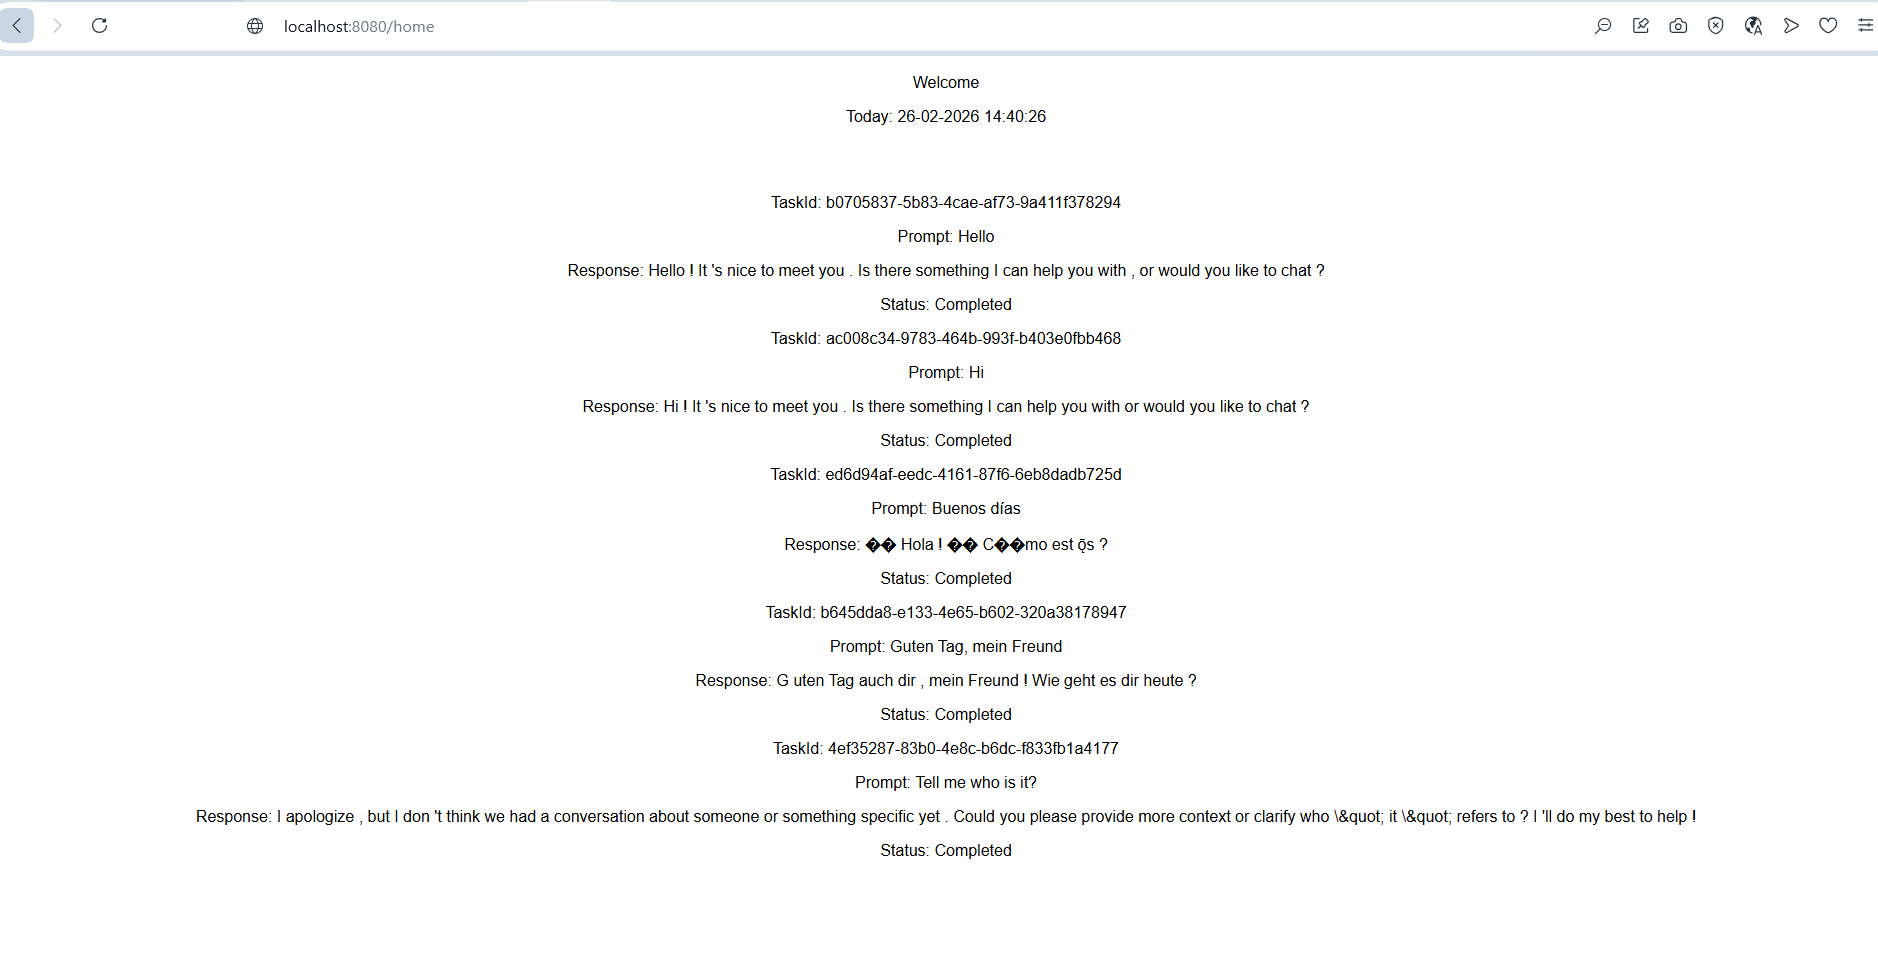
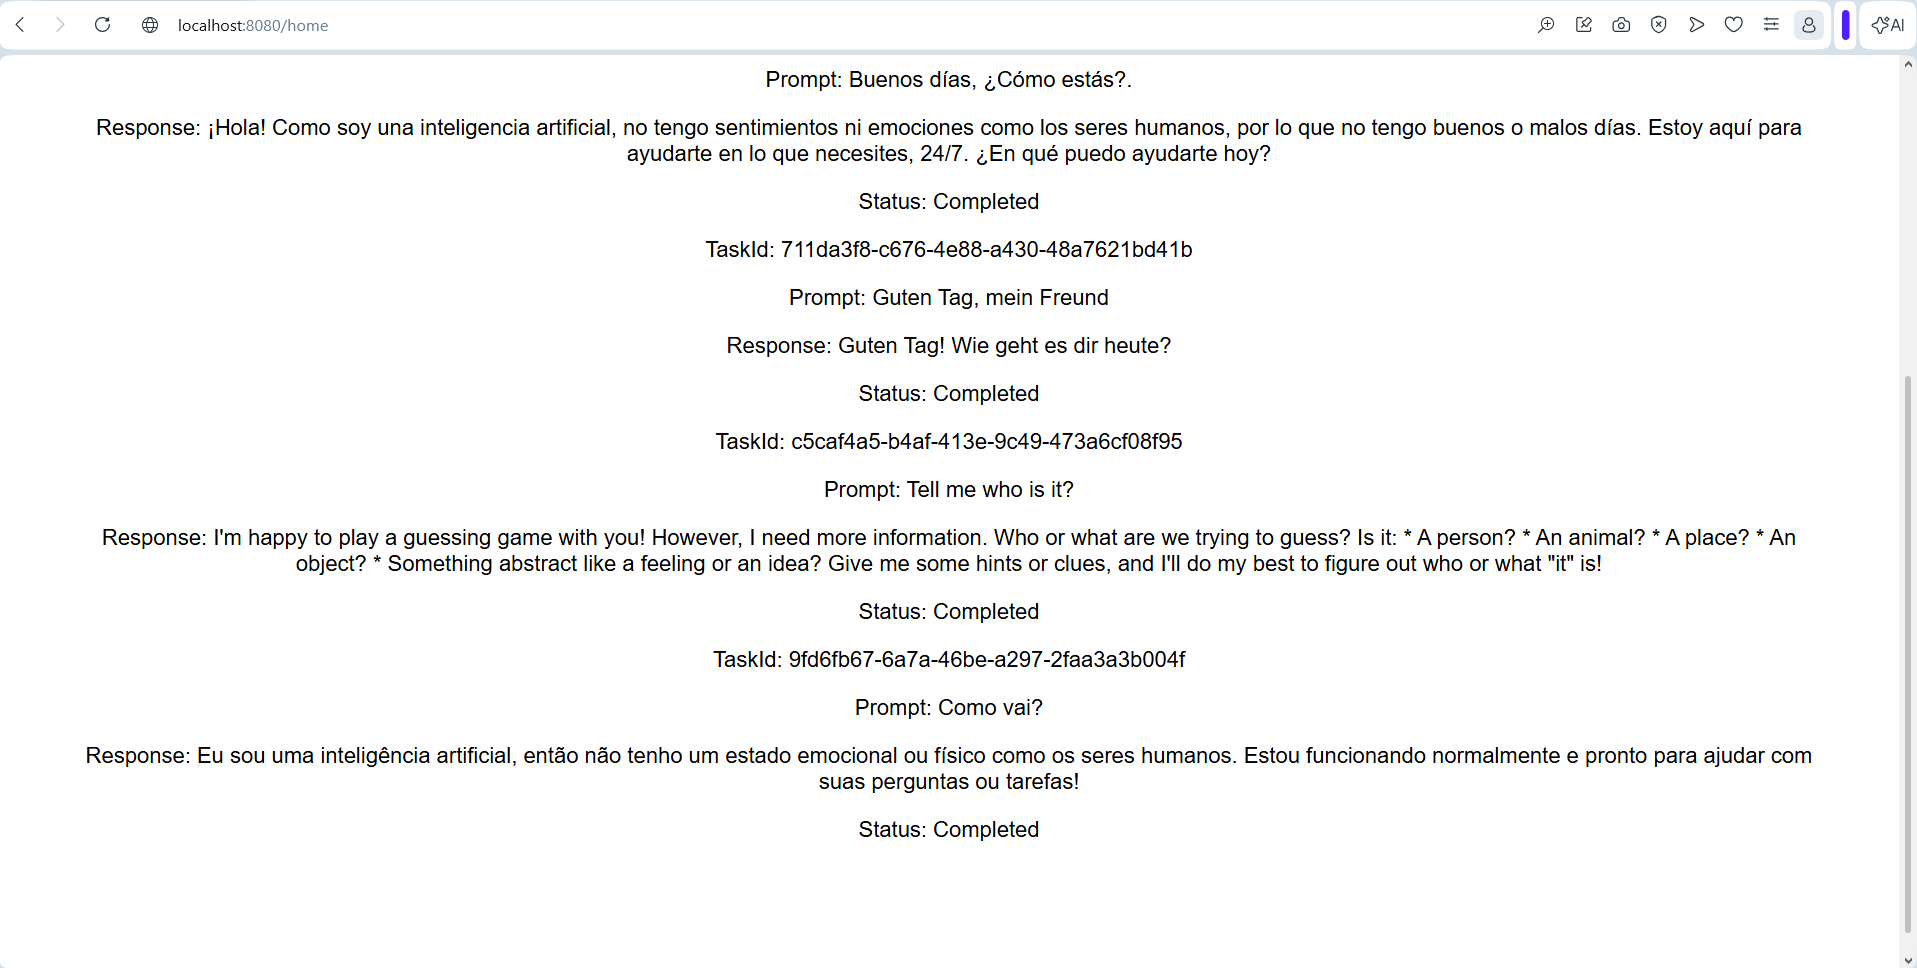
added

diff --git a/java-llama-spring-boot/app/ollama/src/main/java/com/ollama/ollama/utils/OllamaReader.java b/java-llama-spring-boot/app/ollama/src/main/java/com/ollama/ollama/utils/OllamaReader.java
@@ -8,6 +8,8 @@ import java.util.Arrays;
 import java.util.List;
 import static com.ollama.ollama.component.ApplicationProperties.AppName;
 import static java.lang.ProcessBuilder.startPipeline;
+
+import com.ollama.ollama.error.ShellExecutionException;
 import org.apache.commons.lang3.StringUtils;
 import java.io.IOException;
 
@@ -15,7 +17,7 @@ public class OllamaReader {
     public String prompt;
     public List<String> response;
 
-    public OllamaReader(String prompt) throws IOException {
+    public OllamaReader(String prompt) throws RuntimeException, IOException {
         String path = new File(".").getAbsolutePath();
 
         String appNameDir = "\\" + AppName + "\\";
@@ -28,20 +30,9 @@ public class OllamaReader {
         String currentPath = path.substring(0, index + appNameDir.length());
         String filePath = currentPath + psScript;
 
-        // restore psScript from template script
-        Files.copy(
-                Paths.get(
-                        filePath.replace(psScript, psTemplateScript)
-                ),
-                Paths.get(
-                        filePath
-                ),
-                StandardCopyOption.REPLACE_EXISTING
-        );
-
-        this.replaceInFile(
-                filePath,
-                "%%PROMPT%%",
+        String commandPs = String.format(
+                "\"[Console]::OutputEncoding=[System.Text.Encoding]::UTF8; powershell -File '%s' -Z '%s'\"",
+                psTemplateScript,
                 prompt
         );
 
@@ -51,8 +42,8 @@ public class OllamaReader {
                         "-ExecutionPolicy",
                         "Bypass",
                         "-Command",
-                        "\"[Console]::OutputEncoding=[System.Text.Encoding]::UTF8; powershell -File .\\ollama.ps1\""
-                );
+                        commandPs
+            );
 
         pbuilder.directory(new File(currentPath)); // set working directory to run this command
         pbuilder.redirectErrorStream(false); // keep stdout and stderr separate
@@ -65,71 +56,87 @@ public class OllamaReader {
         List<String> response = new ArrayList<>(new ArrayList<>(List.of()));
 
         try {
-            try (BufferedReader stdOut = new BufferedReader(
-                    new InputStreamReader(process.getInputStream(), StandardCharsets.UTF_8));
+            try (
+                 BufferedReader stdOut = new BufferedReader(
+                    new InputStreamReader(process.getInputStream(), StandardCharsets.UTF_8)
+                 );
                  BufferedReader stdErr = new BufferedReader(
-                         new InputStreamReader(process.getErrorStream(), StandardCharsets.UTF_8))) {
-
+                    new InputStreamReader(process.getErrorStream(), StandardCharsets.UTF_8)
+                 )
+            ) {
                 String text;
 
                 String line;
                 System.out.println("----- OUTPUT -----");
 
-                while ((text = stdOut.readLine()) != null) {
-                    int positionStart = text.indexOf("response", 0);
+                boolean isReadingResponse = false;
 
-                    if (positionStart != -1) {
-                        //int positionEnd = text.indexOf(",\"done\":", positionStart) + ": ".length();
-                        int positionEnd = text.indexOf(": ", positionStart) + ": ".length();
+                while ((text = stdOut.readLine()) != null) {
+                    int positionStart = text.indexOf("response", 0); // from the beginning
+                    int positionEnd = 0;
+
+                    if (positionStart == 0) { // should be at first position of the string
+                        isReadingResponse = true;
+                        positionEnd = text.indexOf(": ", positionStart + "response".length());
 
                         if (positionEnd != -1) {
                             String str = text.substring(
-                                    //positionStart + "\"response\":".length(),
-                                    //positionEnd - ",".length()
-                                    //positionStart + "response".length(),
-                                    //positionEnd - "".length()
-                                    positionEnd
+                                    positionEnd + ": ".length()
                             ).replaceAll(
                                     "(^\")|(\",$)",
                                     ""
-                            ); // this last replaceAll removes single quote from the
+                            );
+                            // this last replaceAll removes single quote from the
                             // beginning and end of string
 
-                            if (!str.isEmpty()) {
+                            if (!str.isEmpty()) { // string should have content before adding to response
                                 response.add(str);
                             }
                         }
                     } else {
-
-                        String ending = "done                 : ";
+                        String ending = "done";
                         positionStart = text.indexOf(ending, 0);
 
-                        if (positionStart != -1) {
-                            break; // exit for
-                        } else {
+                        if (positionStart == 0) { // should be at first position of the string
+                            break; // exit for // reading of response is finished
+                        } else if (isReadingResponse) {
                             positionStart = 0;
+
                             String str = text.substring(
                                     positionStart
                             ).replaceAll(
                                     "(^\")|(\",$)",
                                     ""
-                            ); // this last replaceAll removes single quote from the
+                            );
+                            // this last replaceAll removes single quote from the
                             // beginning and end of string
 
-                            str = StringUtils.stripEnd(str, " ");
-                            if (!str.isEmpty()) { response.add(str); }
+                            str = StringUtils.strip(str, " "); // remove spaces from both sides
+                            if (!str.isEmpty()) { // string should have content before adding to response
+                                response.add(str);
+                            }
                         }
                     }
                 } // exit while
 
-                if (response.isEmpty()) {
-                    response.add("There is not response.");
-                }
-
                 System.out.println("------ ERRORS ------");
+
+                boolean errorFound = false;
+                List<String> errorDescription= new ArrayList<>(new ArrayList<>(List.of()));
 
                 while ((line = stdErr.readLine()) != null) {
                     System.err.println(line);
+
+                    errorFound = true;
+                    errorDescription.add(line);
+                }
+
+                if (errorFound) {
+                    response.add("Sorry. Response could be reached by AI. An error occurred.");
+                    throw new ShellExecutionException(String.join("\n", errorDescription));
+                }
+                else if (response.isEmpty()) {
+                    response.add("There is not response.");
                 }
             } // exit try
 
@@ -152,22 +159,5 @@ public class OllamaReader {
         Reader isr = new InputStreamReader(inputStream);
         BufferedReader r = new BufferedReader(isr);
         return r.lines().toList();
-    }
-
-    private void replaceInFile(String filePath, String target, String replacement) throws IOException {
-        Path path = Paths.get(filePath);
-
-        if (!Files.exists(path)) {
-            throw new IOException("File not found: " + filePath);
-        }
-
-        Files.writeString(
-                path,
-                Files
-                        .readString(path, StandardCharsets.UTF_8)
-                        .replace(target, replacement),
-                StandardCharsets.UTF_8,
-                StandardOpenOption.TRUNCATE_EXISTING
-        );
     }
 }

diff --git a/java-llama-spring-boot/app/ollama/src/main/java/com/ollama/ollama/controller/TrackedEventController.java b/java-llama-spring-boot/app/ollama/src/main/java/com/ollama/ollama/controller/TrackedEventController.java
@@ -42,32 +42,30 @@ public class TrackedEventController {
         String url = "/public/home";
         String prompt;
 
-        //prompt = "Hello";
-        //if (!this.checkExist(prompt)) {
-        //    this.addPrompt(model, prompt);
-        //}
-
-        //prompt = "Hi";
-        //if (!this.checkExist(prompt)) {
-        //    this.addPrompt(model, prompt);
-        //}
-
-        //fixing latin encoding
-        //response is not correct. weird characters appears.
-        prompt = "Buenos días, ¿Cómo funciona la IA? Me lo puedes explicar brevemente.";
+        prompt = "Hello";
         if (!this.checkExist(prompt)) {
             this.addPrompt(model, prompt);
         }
 
-        //prompt = "Guten Tag, mein Freund";
-        //if (!this.checkExist(prompt)) {
-        //    this.addPrompt(model, prompt);
-        //}
+        prompt = "Buenos días, ¿Cómo estás?.";
+        if (!this.checkExist(prompt)) {
+            this.addPrompt(model, prompt);
+        }
 
-        //prompt = "Tell me who is it?";
-        //if (!this.checkExist(prompt)) {
-        //    this.addPrompt(model, prompt);
-        //}
+        prompt = "Guten Tag, mein Freund";
+        if (!this.checkExist(prompt)) {
+            this.addPrompt(model, prompt);
+        }
+
+        prompt = "Tell me who is it?";
+        if (!this.checkExist(prompt)) {
+            this.addPrompt(model, prompt);
+        }
+
+        prompt = "Como vai?";
+        if (!this.checkExist(prompt)) {
+            this.addPrompt(model, prompt);
+        }
 
         this.updateData();
         this.loadPrompts(model);

diff --git a/java-llama-spring-boot/app/ollama/src/main/java/com/ollama/ollama/error/ShellExecutionException.java b/java-llama-spring-boot/app/ollama/src/main/java/com/ollama/ollama/error/ShellExecutionException.java
@@ -1,0 +1,7 @@
+package com.ollama.ollama.error;
+
+public class ShellExecutionException extends RuntimeException {
+    public ShellExecutionException(String message) {
+        super(String.format("%s", message));
+    }
+}
